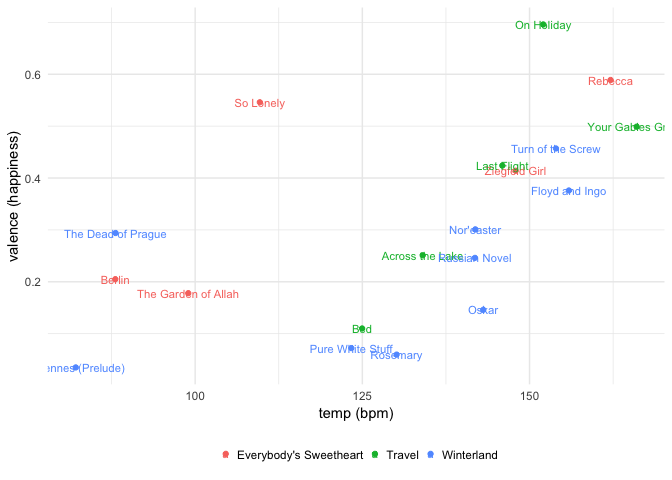
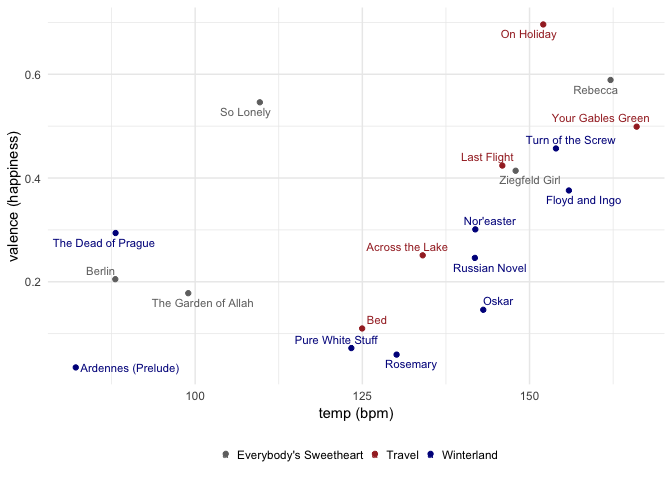
gosta rmd edits

diff --git a/Gosta_Berling_analysis.md b/Gosta_Berling_analysis.md
@@ -32,6 +32,7 @@ library(tidyverse)
 library(httr)
 library(stringr)
 library(lubridate)
+library(ggrepel)
 library(spotifyr)
 ```
 
@@ -219,13 +220,16 @@ elements:
 
 First I wondered if there’s a relationship between song tempo &
 happiness? So, a scatterplot, with song titles as data labels, and dots
-colored by album name to see also if any of the albums clustered at all.
+colored by album name (using primary color from the cover) to see also
+if any of the albums clustered at all along either axis. ggrepel is used
+to move the labels off of the dots
 
 ``` r
 gosta_audio %>%
   ggplot(aes(tempo, valence, color = album)) +
   geom_point() +
-  geom_text(aes(label = track_name), size = 3) +
+  geom_text_repel(aes(label = track_name), size = 3) +
+  scale_color_manual(values = c("#707070", "brown", "dark blue")) +
   theme_minimal() +
   labs(x = "temp (bpm)", y = "valence (happiness)") +
   theme(legend.position = "bottom", legend.title = element_blank())
